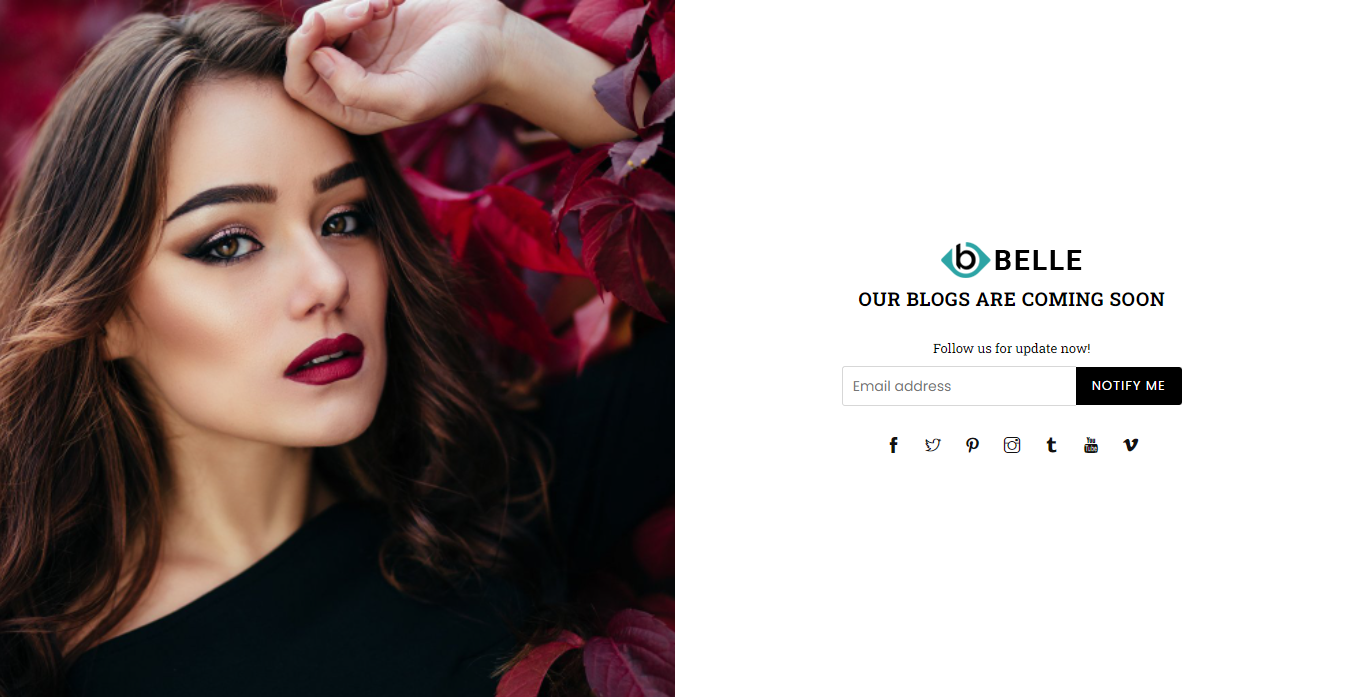
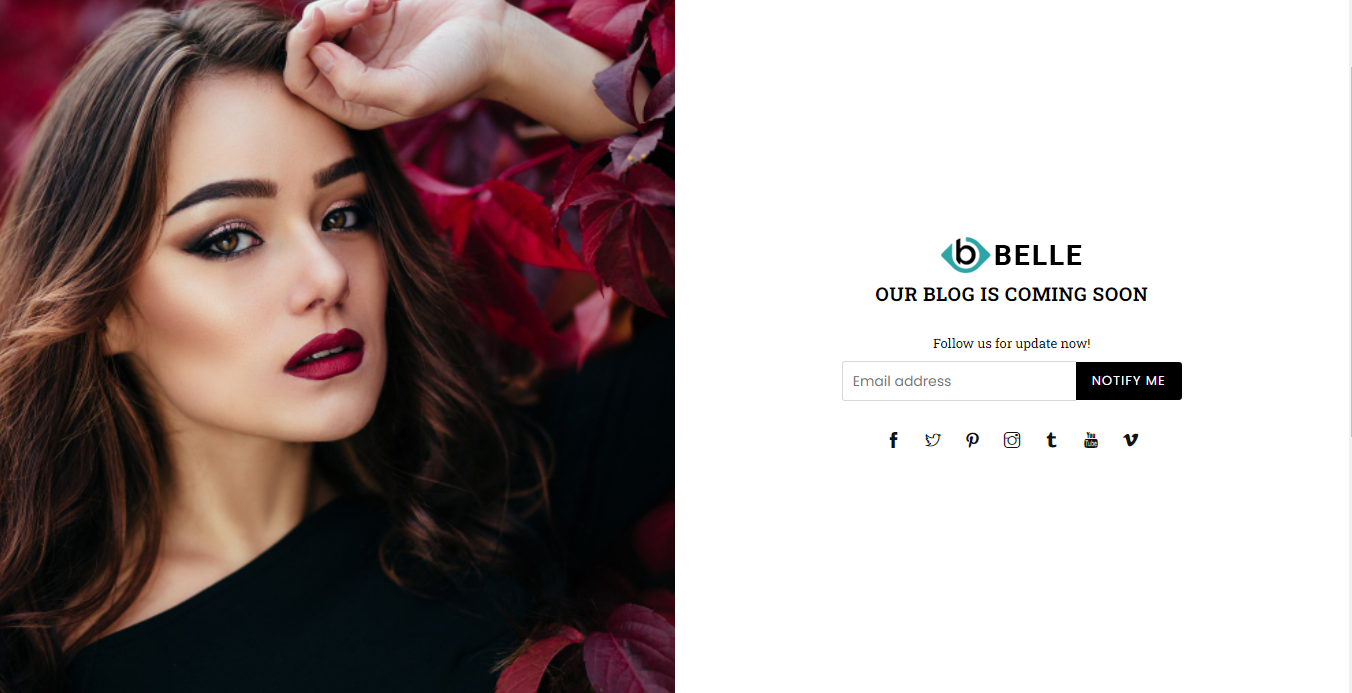
updated readme

diff --git a/main/templates/main/coming_soon.html b/main/templates/main/coming_soon.html
@@ -13,7 +13,7 @@
                 <a href="index.html" class="site-header__logo-image">
                     <img src="{% static 'images/logo.svg' %}" alt=""/>
                 </a>
-                <h2 class="password__title"><b>Our blogs are coming soon</b></h2>
+                <h2 class="password__title"><b>Our blog is coming soon</b></h2>
                 <form method="post" action="#" id="contact_form" accept-charset="UTF-8" class="contact-form">
                     {% csrf_token %}
                     <p class="password__form-heading h4"> Follow us for update now! </p>

diff --git a/README.md b/README.md
@@ -2,7 +2,7 @@
 
 ![image](screenshots/img2.png)
 
-Ecommerce website built using the Django web framework. This was based on a free bootdtrap 
+Ecommerce website built using the Django web framework. This was based on a free bootstrap 
 html template that can be found [here](https://www.templateshub.net/template/belle-multipurpose-bootstrap-html-template)
 
 ## Setup
@@ -31,6 +31,4 @@ python manage.py runserver
 ![image](screenshots/img4.png)
 
 ![image](screenshots/img5.png)
-
-
 
